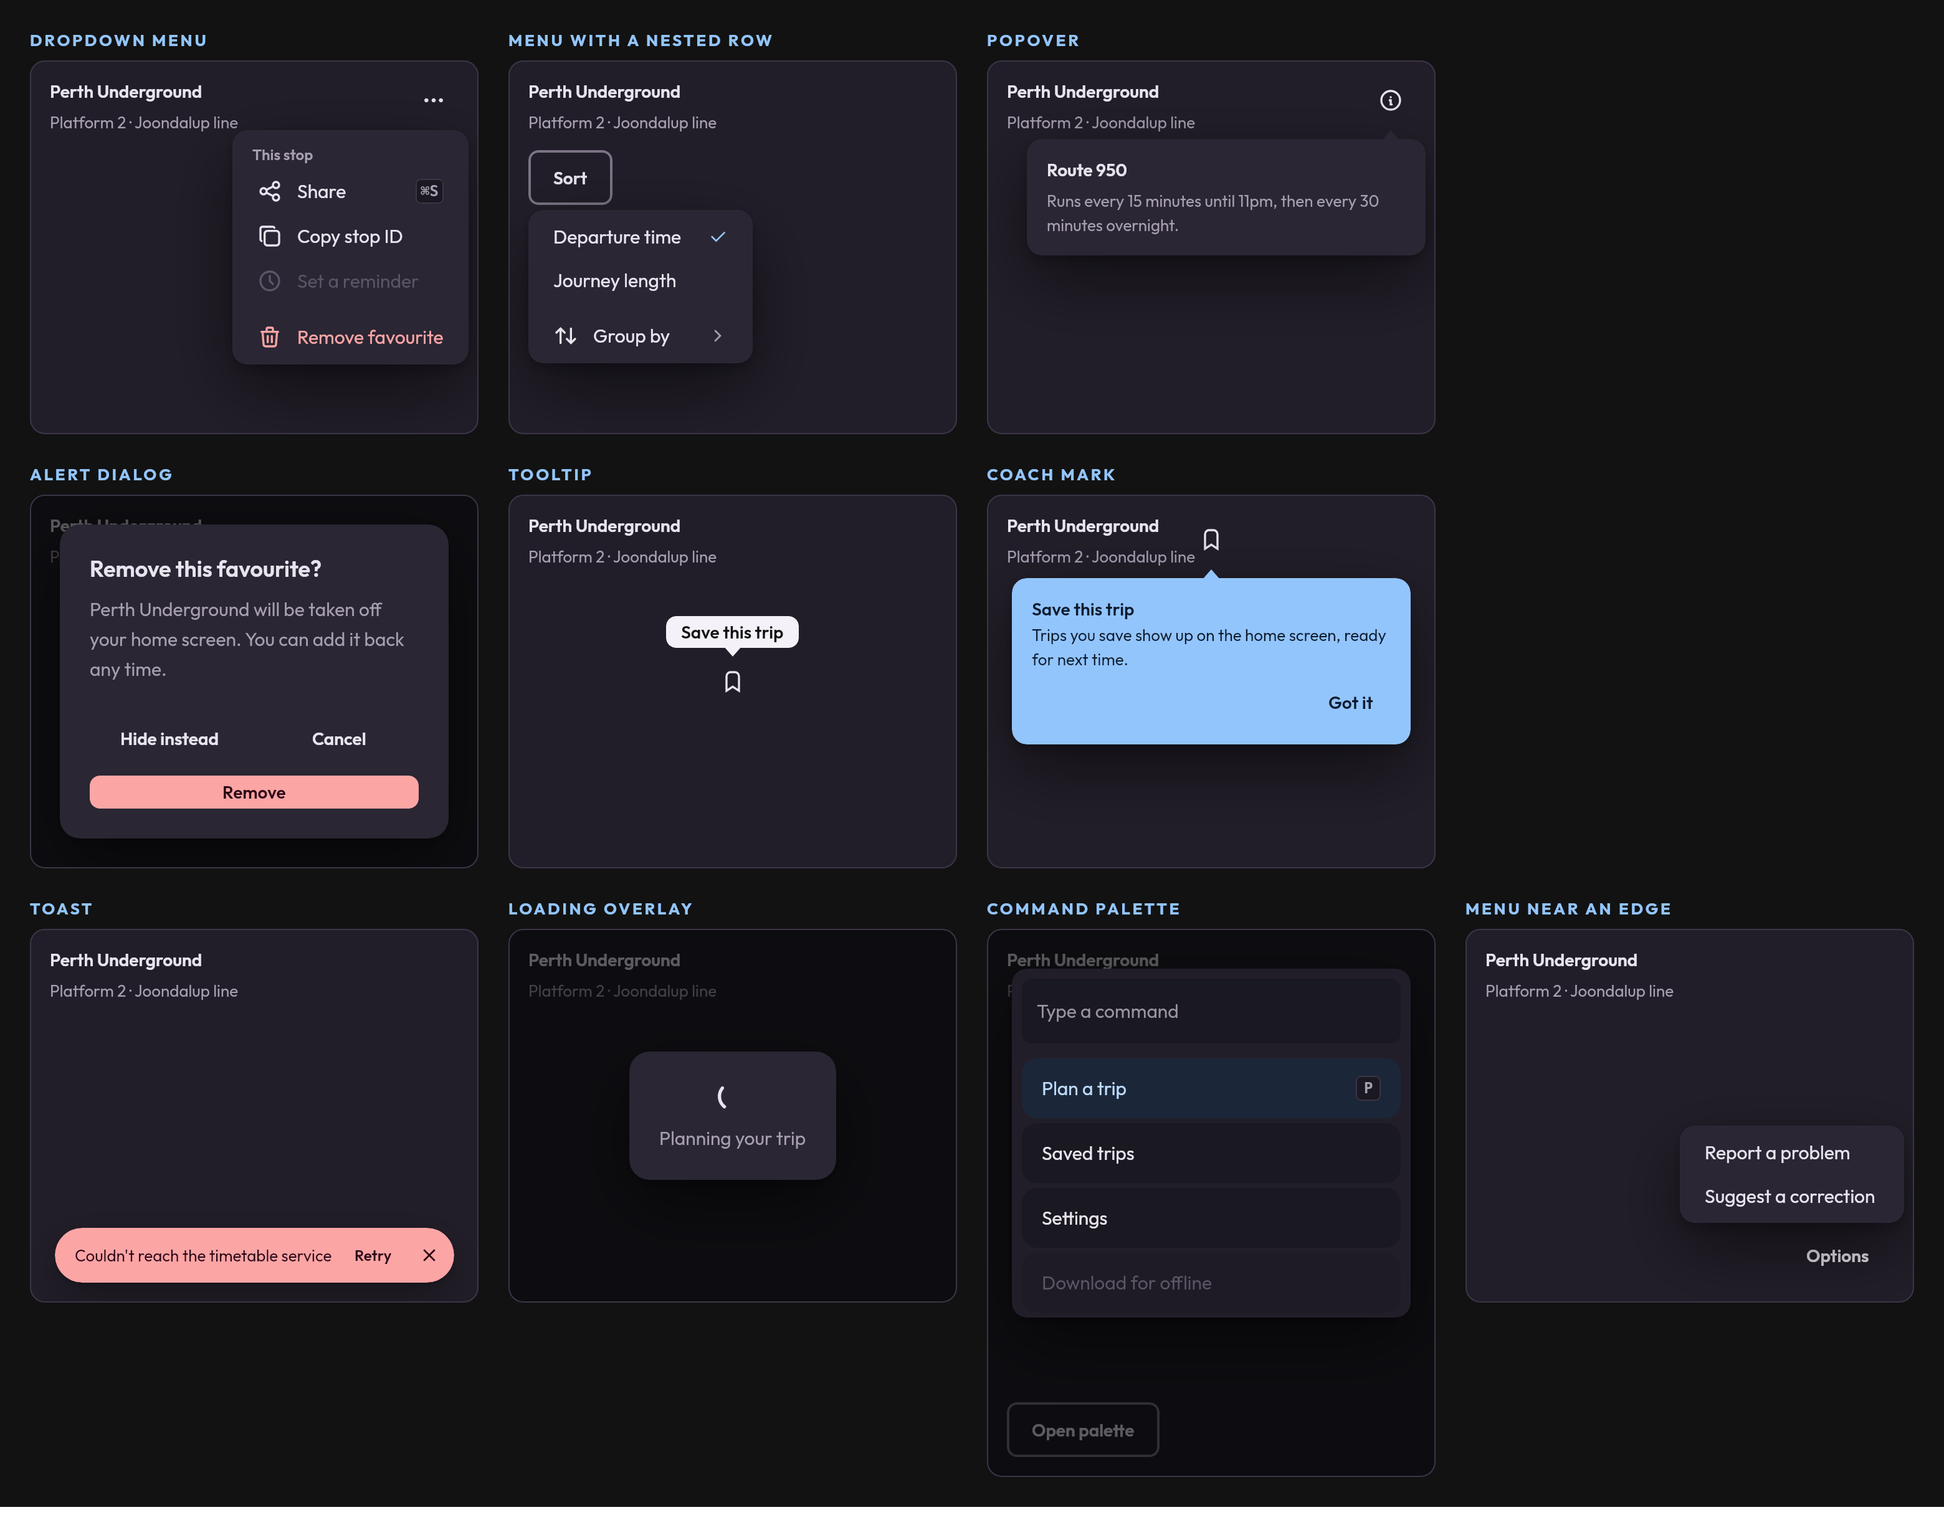
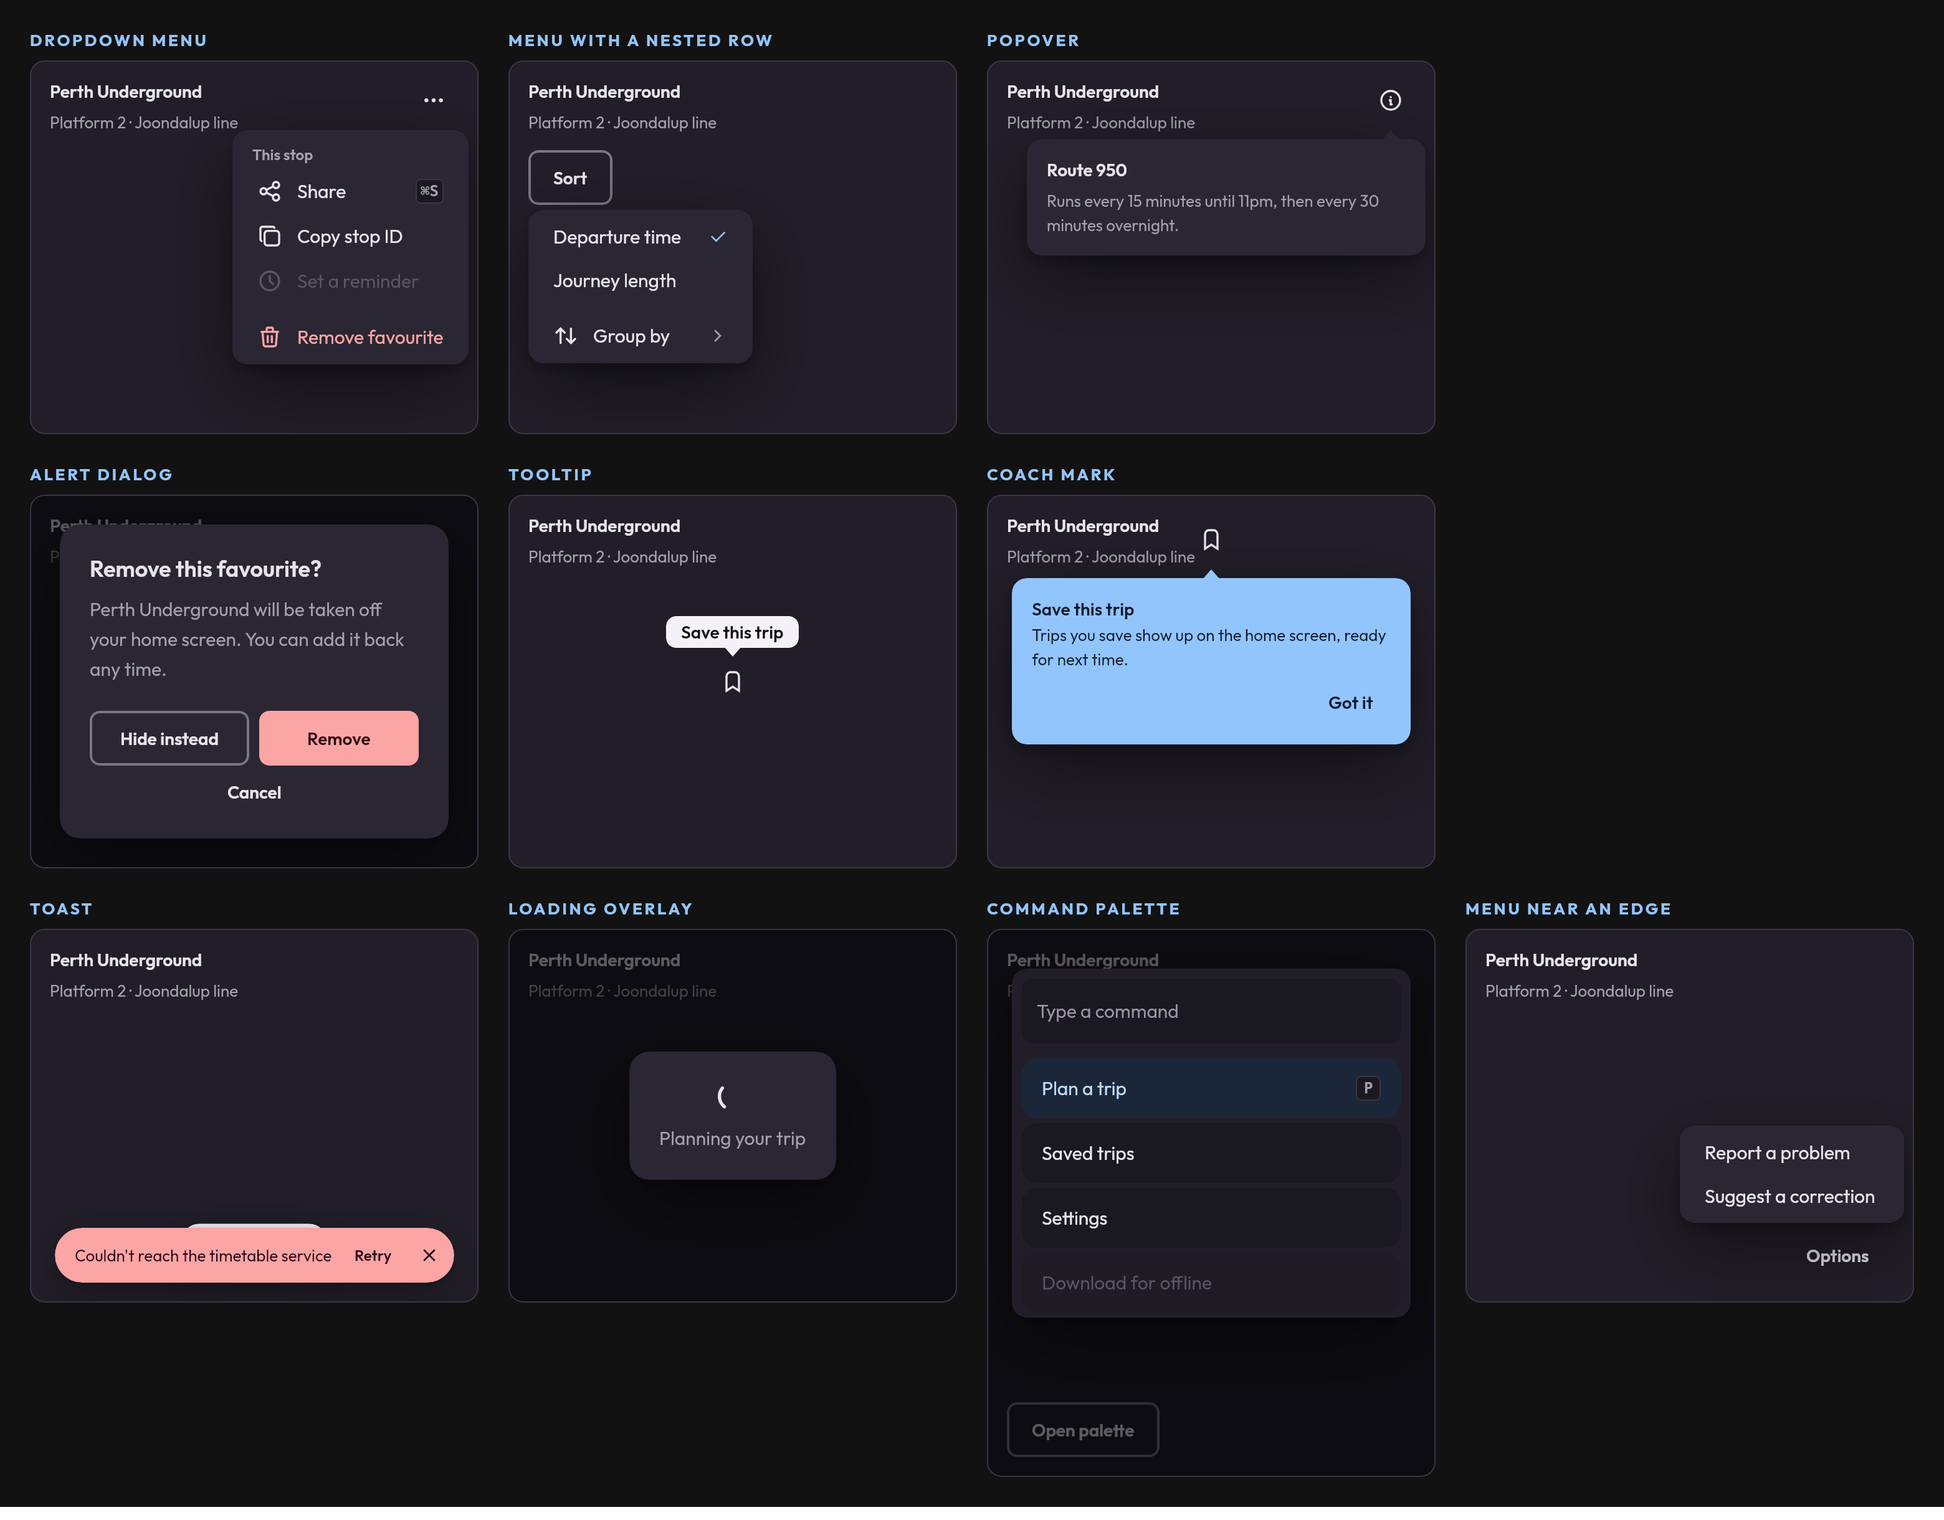
Give an alert's three answers a row, and cancel a line of its own
Three equal thirds put three verbs in a third of a dialog each, which is where
a button starts truncating itself — so one of the three has to take a full
line. It used to be the confirm, leaving the two ghosts sharing the row above
it. That is backwards. "Remove" and "Hide instead" are the question; "Cancel"
is declining to answer it. Side by side the three read as a three-way choice;
the answers together with the way out beneath them read as what they are.

The neutral answer becomes Secondary rather than Ghost while it is up there,
so the row holds two buttons of equal weight rather than one and a half.

Claude-Session: https://claude.ai/code/session_012oQuMLS7ufDrxJRTykEQFQ

Changed region(s): [[0.0311, 0.4672, 0.2176, 0.5295]]

diff --git a/ui-catalog/src/jvmTest/kotlin/io/kontour/ui/catalog/AlertDialogAnswersTest.kt b/ui-catalog/src/jvmTest/kotlin/io/kontour/ui/catalog/AlertDialogAnswersTest.kt
@@ -1,0 +1,222 @@
+package io.kontour.ui.catalog
+
+import androidx.compose.foundation.background
+import androidx.compose.foundation.layout.Box
+import androidx.compose.foundation.layout.fillMaxSize
+import androidx.compose.ui.Modifier
+import androidx.compose.ui.graphics.Color
+import androidx.compose.ui.graphics.toArgb
+import io.kontour.ui.overlay.AlertDialog
+import io.kontour.ui.overlay.OverlayHost
+import io.kontour.ui.theme.Theme
+import java.awt.image.BufferedImage
+import kotlin.test.Test
+import kotlin.test.assertTrue
+
+/**
+ * Which of an alert's three buttons gets a line of its own.
+ *
+ * Three equal thirds put three verbs in a third of a dialog each, which is where
+ * a button starts ellipsising itself — so one of the three has to take a full
+ * line. It used to be the confirm, leaving the two ghosts sharing the row above
+ * it. That is backwards: "Save" and "Don't save" are the question, and "Cancel"
+ * is declining to answer it. Beside each other, three buttons read as a
+ * three-way choice; the answers together with the way out beneath them read as
+ * what it is.
+ *
+ * ### Found by its fill, and by the *size* of it
+ *
+ * The confirm is the only filled button on the dialog. Matching `colors.primary`
+ * alone is not enough to find it, though — in this theme that token is very
+ * nearly black, so the first version of this matched every glyph on the dialog
+ * and reported a button the size of the whole thing. What identifies a filled
+ * button is not the colour but the *run*: a hundred consecutive pixels of one
+ * colour is a button, and no letterform is.
+ *
+ * The colour still comes out of the theme rather than being written down here,
+ * so a token change cannot quietly turn this into a test that measures nothing.
+ */
+class AlertDialogAnswersTest {
+
+    @Test
+    fun theConfirmSharesTheTopRowAndCancelTakesItsOwnLine() {
+        var primary = 0
+        var image: BufferedImage? = null
+
+        Scene(width = 900, height = 700) {
+            primary = Theme.colors.primary.toArgb()
+            Box(Modifier.fillMaxSize().background(Color.White)) {
+                OverlayHost(Modifier.fillMaxSize()) {
+                    AlertDialog(
+                        visible = true,
+                        onDismissRequest = {},
+                        confirmLabel = "Discard",
+                        onConfirm = {},
+                        neutralLabel = "Keep editing",
+                        onNeutral = {},
+                        cancelLabel = "Cancel",
+                    ) {
+                        +"Leave without saving?"
+                        supporting { +"This journey has unsaved changes." }
+                    }
+                }
+            }
+        }.use { scene -> image = scene.frames(20) }
+
+        val frame = requireNotNull(image)
+        val fill = requireNotNull(frame.filledButton(primary)) {
+            "no filled confirm button was drawn at all"
+        }
+
+        // How much of the dialog's own width the confirm is taking. Measured
+        // against the surface rather than the scene, because the dialog is
+        // narrower than the window.
+        val dialog = frame.surfaceSpanAt(fill.top + (fill.bottom - fill.top) / 2)
+        val fillWidth = fill.right - fill.left + 1
+
+        assertTrue(
+            fillWidth < dialog * 0.7,
+            "the confirm is ${fillWidth}px wide in a ${dialog}px dialog — it is " +
+                "taking a full line of its own, which is the line cancel should " +
+                "have",
+        )
+        assertTrue(
+            frame.hasInkBelow(fill.bottom),
+            "nothing is drawn below the confirm — cancel is not on its own line " +
+                "beneath the two answers",
+        )
+    }
+
+    @Test
+    fun twoAnswersStayOnOneRow() {
+        var primary = 0
+        var image: BufferedImage? = null
+
+        Scene(width = 900, height = 700) {
+            primary = Theme.colors.primary.toArgb()
+            Box(Modifier.fillMaxSize().background(Color.White)) {
+                OverlayHost(Modifier.fillMaxSize()) {
+                    AlertDialog(
+                        visible = true,
+                        onDismissRequest = {},
+                        confirmLabel = "Remove",
+                        onConfirm = {},
+                        cancelLabel = "Cancel",
+                    ) {
+                        +"Remove this stop?"
+                    }
+                }
+            }
+        }.use { scene -> image = scene.frames(20) }
+
+        val frame = requireNotNull(image)
+        val fill = requireNotNull(frame.filledButton(primary)) {
+            "no filled confirm button was drawn at all"
+        }
+        assertTrue(
+            !frame.hasInkBelow(fill.bottom),
+            "something is drawn below the confirm — two answers should share one " +
+                "row, and nothing here asked for a second",
+        )
+    }
+
+    /**
+     * Where the one filled button is.
+     *
+     * Rows carrying a run of [SolidRun] pixels of [argb] and nothing else. A
+     * glyph in the same colour never manages a run that long, so this finds the
+     * button and skips the text.
+     */
+    private fun BufferedImage.filledButton(argb: Int): Bounds? {
+        var left = width
+        var top = height
+        var right = -1
+        var bottom = -1
+        for (y in 0 until height) {
+            var run = 0
+            for (x in 0 until width) {
+                if (getRGB(x, y) == argb) {
+                    run++
+                    if (run < SolidRun) continue
+                    if (x - run + 1 < left) left = x - run + 1
+                    if (y < top) top = y
+                    if (x > right) right = x
+                    if (y > bottom) bottom = y
+                } else {
+                    run = 0
+                }
+            }
+        }
+        return if (right < 0) null else Bounds(left, top, right, bottom)
+    }
+
+    /** How wide the dialog's white surface is on one row. */
+    private fun BufferedImage.surfaceSpanAt(y: Int): Int {
+        var left = width
+        var right = -1
+        for (x in 0 until width) {
+            if (!isSurface(getRGB(x, y))) continue
+            if (x < left) left = x
+            if (x > right) right = x
+        }
+        return if (right < 0) 0 else right - left + 1
+    }
+
+    /**
+     * Whether anything is drawn on the dialog below a given row.
+     *
+     * Only where the dialog's surface still is, so the scrim below it and the
+     * shadow around it are never mistaken for a second row of buttons.
+     */
+    private fun BufferedImage.hasInkBelow(y: Int): Boolean {
+        for (row in (y + Gap) until height) {
+            var onSurface = false
+            var ink = false
+            for (x in 0 until width) {
+                val rgb = getRGB(x, row)
+                if (isSurface(rgb)) {
+                    onSurface = true
+                } else if (onSurface) {
+                    // Past the surface's leading edge and not the surface, so it
+                    // is either something drawn on it or its trailing edge. The
+                    // edge is one antialiased pixel; ink is many.
+                    ink = true
+                }
+            }
+            // A row with no surface at all is below the dialog entirely.
+            if (!onSurface) return false
+            if (ink && countOffSurface(row) > EdgePixels) return true
+        }
+        return false
+    }
+
+    /** How many pixels of a row are inside the dialog but not its surface. */
+    private fun BufferedImage.countOffSurface(row: Int): Int {
+        var first = -1
+        var last = -1
+        for (x in 0 until width) {
+            if (!isSurface(getRGB(x, row))) continue
+            if (first < 0) first = x
+            last = x
+        }
+        if (first < 0) return 0
+        var off = 0
+        for (x in first until last) if (!isSurface(getRGB(x, row))) off++
+        return off
+    }
+
+    private fun isSurface(rgb: Int): Boolean = (rgb and 0xFFFFFF) == 0xFFFFFF
+
+    private data class Bounds(val left: Int, val top: Int, val right: Int, val bottom: Int)
+
+    private companion object {
+        /** Long enough to be a button and too long to be a letterform. */
+        const val SolidRun = 100
+
+        /** Clear of the confirm's own antialiased bottom edge. */
+        const val Gap = 6
+
+        /** More off-surface pixels than a rounded corner can account for. */
+        const val EdgePixels = 12
+    }
+}

diff --git a/ui/src/commonMain/kotlin/io/kontour/ui/overlay/Dialog.kt b/ui/src/commonMain/kotlin/io/kontour/ui/overlay/Dialog.kt
@@ -150,7 +150,7 @@ fun Dialog(
 }
 
 /**
- * A dialog with a title, a message and up to two actions.
+ * A dialog with a title, a message and up to three actions.
  *
  * ```
  * AlertDialog(
@@ -166,10 +166,11 @@ fun Dialog(
  * ```
  *
  * The confirm button is on the trailing edge and the cancel on its leading side,
- * which is the arrangement both platforms have converged on. Actions wrap onto
- * separate lines when the labels are long rather than truncating — a truncated
- * "Delete permanently" reading as "Delete perman…" is how people confirm things
- * they did not mean to.
+ * which is the arrangement both platforms have converged on. One or two actions
+ * share a row as equal halves. A third breaks it: the two *answers* stay
+ * together and cancel takes a full line beneath them, because three labels in a
+ * third of a dialog each is where a button starts truncating its own verb — and
+ * "Delete perman…" is how people confirm things they did not mean to.
  *
  * @param destructive Renders the confirm action in the danger tone. Set it for
  *   anything the user cannot undo.
@@ -227,63 +228,64 @@ fun AlertDialog(
         // both crowded into the trailing corner and neither near a thumb. Equal
         // halves make the choice read as a choice.
         //
-        // Three is the case that has to break the row. Three equal thirds put
-        // three labels in a third of a dialog each, which is where a button
-        // starts ellipsising its own verb — so the two secondary answers share a
-        // row and the confirm takes a full line of its own beneath them.
-        val secondary = buildList<@Composable RowScope.() -> Unit> {
-            if (neutralLabel != null && onNeutral != null) {
-                add {
-                    Button(
-                        onClick = onNeutral,
-                        modifier = Modifier.weight(1f),
-                        variant = ButtonVariant.Ghost,
-                    ) { +neutralLabel }
-                }
-            }
-            if (cancelLabel != null) {
-                add {
-                    Button(
-                        onClick = onDismissRequest,
-                        modifier = Modifier.weight(1f),
-                        variant = ButtonVariant.Ghost,
-                    ) { +cancelLabel }
-                }
-            }
-        }
-        val confirm: (@Composable (Modifier) -> Unit)? =
-            if (confirmLabel != null && onConfirm != null) {
-                { buttonModifier ->
-                    Button(
-                        onClick = onConfirm,
-                        modifier = buttonModifier,
-                        variant = if (destructive) {
-                            ButtonVariant.Destructive
-                        } else {
-                            ButtonVariant.Primary
-                        },
-                    ) { +confirmLabel }
-                }
-            } else {
-                null
-            }
+        // ### Three answers break the row, and the break goes under *cancel*
+        //
+        // Three equal thirds put three labels in a third of a dialog each, which
+        // is where a button starts ellipsising its own verb. So one of them
+        // takes a line of its own — and it is cancel, because cancel is not one
+        // of the answers. "Save" and "Don't save" are the question; "Cancel" is
+        // declining to answer it, and putting it beside them made the dialog
+        // read as a three-way choice rather than a two-way one with a way out.
+        //
+        // This used to break the other way, with the two ghosts sharing a row
+        // and the confirm below them.
+        val hasNeutral = neutralLabel != null && onNeutral != null
+        val hasConfirm = confirmLabel != null && onConfirm != null
+        val hasCancel = cancelLabel != null
+        val threeWay = hasNeutral && hasConfirm && hasCancel
 
-        val ownLine = secondary.size >= 2
+        val neutral: @Composable (Modifier) -> Unit = { buttonModifier ->
+            Button(
+                onClick = onNeutral ?: {},
+                modifier = buttonModifier,
+                variant = ButtonVariant.Secondary,
+            ) { +(neutralLabel ?: "") }
+        }
+        val cancel: @Composable (Modifier) -> Unit = { buttonModifier ->
+            Button(
+                onClick = onDismissRequest,
+                modifier = buttonModifier,
+                variant = ButtonVariant.Ghost,
+            ) { +(cancelLabel ?: "") }
+        }
+        val confirm: @Composable (Modifier) -> Unit = { buttonModifier ->
+            Button(
+                onClick = onConfirm ?: {},
+                modifier = buttonModifier,
+                variant = if (destructive) ButtonVariant.Destructive else ButtonVariant.Primary,
+            ) { +(confirmLabel ?: "") }
+        }
 
         Column(
             modifier = Modifier.padding(top = Theme.spacing.sm),
             verticalArrangement = Arrangement.spacedBy(Theme.spacing.xs),
         ) {
-            if (secondary.isNotEmpty() || confirm != null) {
-                Row(
-                    modifier = Modifier.fillMaxWidth(),
-                    horizontalArrangement = Arrangement.spacedBy(Theme.spacing.xs),
-                ) {
-                    secondary.forEach { it() }
-                    if (!ownLine) confirm?.invoke(Modifier.weight(1f))
+            if (hasNeutral || hasCancel || hasConfirm) Row(
+                modifier = Modifier.fillMaxWidth(),
+                horizontalArrangement = Arrangement.spacedBy(Theme.spacing.xs),
+            ) {
+                if (threeWay) {
+                    // The two answers, together.
+                    neutral(Modifier.weight(1f))
+                    confirm(Modifier.weight(1f))
+                } else {
+                    if (hasNeutral) neutral(Modifier.weight(1f))
+                    if (hasCancel) cancel(Modifier.weight(1f))
+                    if (hasConfirm) confirm(Modifier.weight(1f))
                 }
             }
-            if (ownLine) confirm?.invoke(Modifier.fillMaxWidth())
+            // The way out, on its own.
+            if (threeWay) cancel(Modifier.fillMaxWidth())
         }
     }
 }

diff --git a/docs/using/overlays.md b/docs/using/overlays.md
@@ -314,6 +314,18 @@ needs a visible path too.
 
 ---
 
+## Alert dialogs with three answers
+
+Three equal thirds put three labels in a third of a dialog each, which is where a
+button starts ellipsising its own verb. So one of them takes a line of its own —
+and it is **cancel**, because cancel is not one of the answers.
+
+"Save" and "Don't save" are the question; "Cancel" is declining to answer it.
+Putting it beside them made the dialog read as a three-way choice rather than a
+two-way one with a way out.
+
+![A three-action alert dialog](../../ui-catalog/screenshots/overlays-light.png)
+
 ## Toasts
 
 ```kotlin
